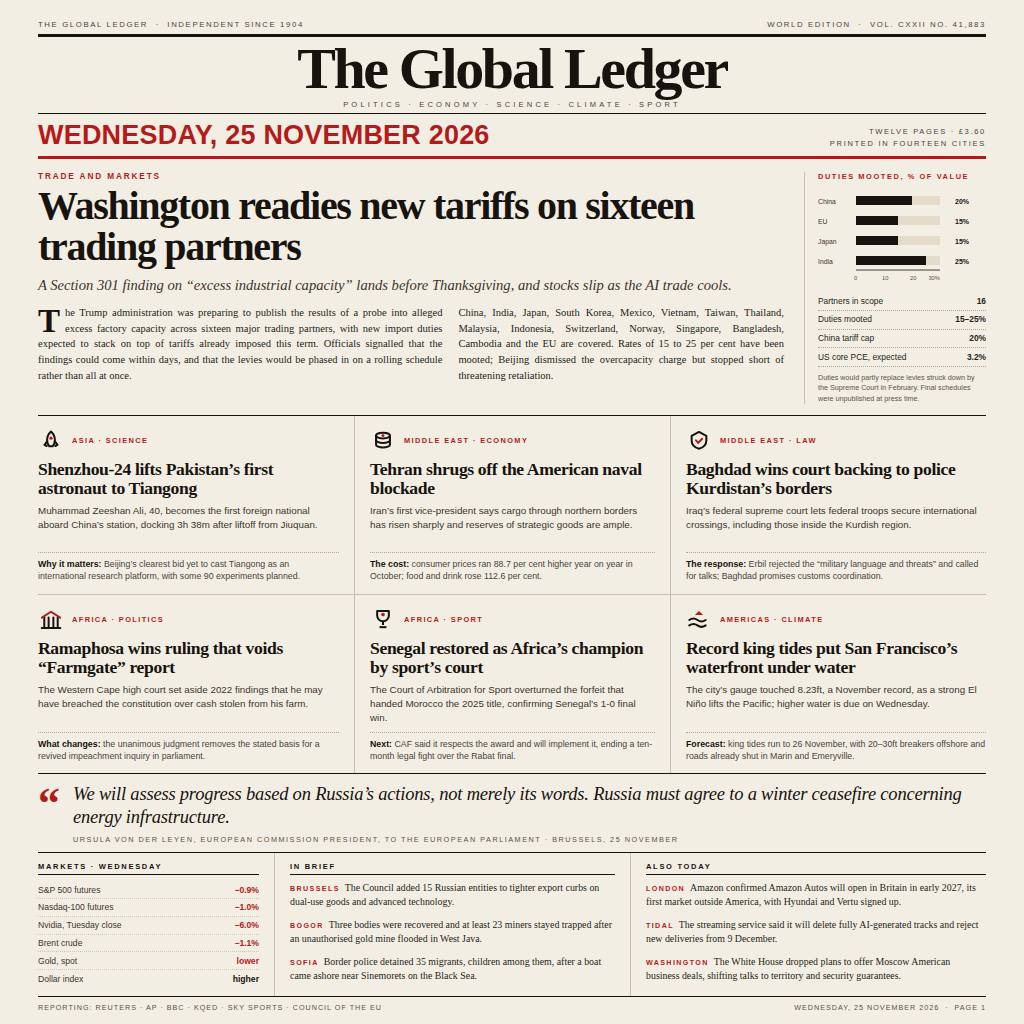
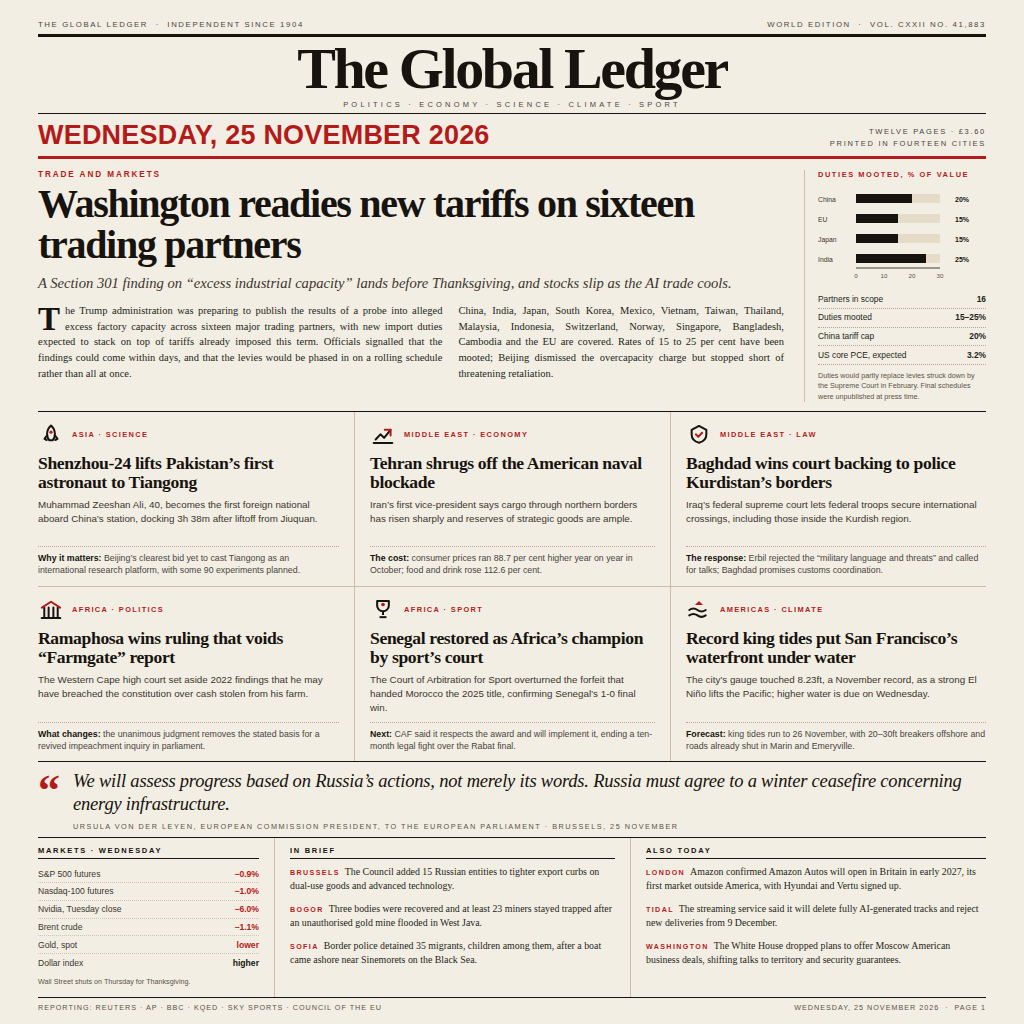
news-image-20261125: front page for Wednesday 25 November 2026
The Global Ledger, 1024x1024. Lead on Section 301 duties across sixteen
trading partners; Shenzhou-24 and Pakistan's first astronaut; Iran under
blockade at 88.7% inflation; Baghdad's court ruling on Kurdistan crossings;
Ramaphosa's Farmgate report set aside; Senegal restored as African champion;
record king tides in San Francisco. Plus von der Leyen pull quote, market
board and world briefs.

Changed region(s): [[0.0312, 0.1562, 0.9688, 0.9688], [0.7812, 0.1875, 0.8125, 0.2188]]

diff --git a/poster.html b/poster.html
@@ -56,7 +56,7 @@
   }
 
   /* lead */
-  .lead { display: flex; gap: 20px; padding: 13px 0 11px 0; border-bottom: 1px solid #17130e; }
+  .lead { display: flex; gap: 20px; padding: 11px 0 9px 0; border-bottom: 1px solid #17130e; }
   .lead-main { flex: 1 1 auto; min-width: 0; }
   .kicker {
     font-family: Helvetica, Arial, sans-serif;
@@ -91,7 +91,7 @@
     display: grid; grid-template-columns: 1fr 1fr 1fr; grid-template-rows: 1fr 1fr;
     border-bottom: 1px solid #17130e;
   }
-  .cell { padding: 12px 15px 11px 0; border-bottom: 1px solid #c9bfa9; display: flex; flex-direction: column; }
+  .cell { padding: 10px 15px 9px 0; border-bottom: 1px solid #c9bfa9; display: flex; flex-direction: column; }
   .cell:nth-child(3n+2) { padding-left: 15px; border-left: 1px solid #c9bfa9; }
   .cell:nth-child(3n+3) { padding-left: 15px; border-left: 1px solid #c9bfa9; padding-right: 0; }
   .cell:nth-child(n+4) { border-bottom: 0; }
@@ -111,7 +111,7 @@
   .cell .more b { color: #17130e; }
 
   /* pull quote */
-  .quote { border-bottom: 1px solid #17130e; padding: 9px 0 8px 0; display: flex; align-items: flex-start; gap: 13px; }
+  .quote { border-bottom: 1px solid #17130e; padding: 8px 0 6px 0; display: flex; align-items: flex-start; gap: 13px; }
   .quote .mark { font-size: 44px; line-height: 0.7; color: #b31b1b; font-weight: 700; flex: 0 0 auto; padding-top: 6px; }
   .quote .txt { font-size: 18.5px; line-height: 1.24; font-style: italic; letter-spacing: -0.2px; }
   .quote .attr {
@@ -125,7 +125,7 @@
     display: grid; grid-template-columns: 236px 1fr 1fr;
     border-bottom: 1px solid #17130e;
   }
-  .band > div { padding: 9px 15px 8px 0; display: flex; flex-direction: column; }
+  .band > div { padding: 8px 15px 6px 0; display: flex; flex-direction: column; }
   .band > div + div { border-left: 1px solid #c9bfa9; padding-left: 15px; }
   .band > div:last-child { padding-right: 0; }
   .bt-head {
@@ -149,7 +149,7 @@
 
   /* footer */
   .foot {
-    display: flex; justify-content: space-between; align-items: baseline; padding-top: 6px;
+    display: flex; justify-content: space-between; align-items: baseline; padding-top: 5px;
     font-family: Helvetica, Arial, sans-serif;
     font-size: 7.2px; letter-spacing: 1px; text-transform: uppercase; color: #5a5247;
   }
@@ -211,11 +211,11 @@
           <text x="0" y="75.5">India</text>
         </g>
         <path d="M38 82h84" stroke="#17130e" stroke-width="0.8"/>
-        <g font-family="Helvetica, Arial, sans-serif" font-size="5.8" fill="#5a5247">
-          <text x="36" y="92">0</text>
-          <text x="64" y="92">10</text>
-          <text x="92" y="92">20</text>
-          <text x="122" y="92" text-anchor="end">30%</text>
+        <g font-family="Helvetica, Arial, sans-serif" font-size="6.2" fill="#5a5247" text-anchor="middle">
+          <text x="38" y="92">0</text>
+          <text x="66" y="92">10</text>
+          <text x="94" y="92">20</text>
+          <text x="122" y="92">30</text>
         </g>
       </svg>
       <div class="figures">
@@ -250,12 +250,11 @@
     <div class="cell">
       <div class="top">
 <svg width="26" height="26" viewBox="0 0 24 24" aria-hidden="true">
-          <g fill="none" stroke="#17130e" stroke-width="1.85" stroke-linecap="round">
-            <ellipse cx="12" cy="7" rx="6.4" ry="2.6"/>
-            <path d="M5.6 7v4.2c0 1.4 2.9 2.6 6.4 2.6s6.4-1.2 6.4-2.6V7"/>
-            <path d="M5.6 11.2v4.2c0 1.4 2.9 2.6 6.4 2.6s6.4-1.2 6.4-2.6v-4.2"/>
+          <g fill="none" stroke="#17130e" stroke-width="1.85" stroke-linecap="round" stroke-linejoin="round">
+            <path d="M3.4 19.4h17.2"/>
+            <path d="M5.2 16.2l4.4-4.8 3.4 3.2 6-7.4"/>
           </g>
-          <circle cx="12" cy="7" r="1.4" fill="#b31b1b"/>
+          <path d="M13.6 7.2h5.4v5.2" fill="none" stroke="#b31b1b" stroke-width="1.85" stroke-linecap="round" stroke-linejoin="round"/>
         </svg>
         <div class="rk">Middle East · Economy</div>
       </div>
@@ -351,6 +350,7 @@
         <div><span class="lbl">Gold, spot</span><span class="dn">lower</span></div>
         <div><span class="lbl">Dollar index</span><span class="val">higher</span></div>
       </div>
+      <div class="note" style="margin-top:6px">Wall Street shuts on Thursday for Thanksgiving.</div>
     </div>
 
     <div>

diff --git a/README.md b/README.md
@@ -4,13 +4,34 @@
 [![rank](https://make.fun/badge/news-image-20261125/Ajwyunsx/news-image-20261125/rank.svg)](https://make.fun/bounty/news-image-20261125/leaderboard?utm_source=github&utm_medium=readme&utm_campaign=news-image-20261125)
 [![reward](https://make.fun/badge/news-image-20261125/Ajwyunsx/news-image-20261125/reward.svg)](https://make.fun/bounty/news-image-20261125?utm_source=github&utm_medium=readme&utm_campaign=news-image-20261125)
 
-A 1024x1024 Financial Times-style newspaper front page, "The Global Ledger", dated Wednesday 25 November 2026. The lead is Washington readying new Section 301 tariffs of 15–25% on sixteen trading partners as the AI trade cools; around it, Shenzhou-24 carries Pakistan's first astronaut to Tiangong, Tehran shrugs off the US naval blockade as inflation hits 88.7%, Baghdad wins court backing to police Kurdistan's border crossings, Ramaphosa's "Farmgate" report is set aside, Senegal's Africa Cup title is restored by sport's court, and record king tides flood San Francisco's waterfront. A pull quote from Ursula von der Leyen on a winter energy ceasefire, Wednesday's market board and world briefs fill the foot.
+**The Global Ledger** — a 1024×1024 newspaper front page summing up Wednesday, 25 November 2026. Newsprint stock, ink black, one accent red, no gradients and no stock photography: a Financial Times-style page built entirely from inline HTML/CSS/SVG in `poster.html`, rendered once to `entry.png`.
+
+## Stories on the page
+
+- **Lead — Trade and markets:** Washington readies Section 301 duties of 15–25% on sixteen trading partners over "excess industrial capacity"; stocks slip as the AI trade cools.
+- **Asia · Science:** Shenzhou-24 lifts Pakistan's first astronaut, Muhammad Zeeshan Ali, to Tiangong.
+- **Middle East · Economy:** Tehran shrugs off the American naval blockade as inflation runs at 88.7%.
+- **Middle East · Law:** Baghdad's federal court lets federal troops police Kurdistan's international crossings; Erbil rejects the "military language".
+- **Africa · Politics:** South Africa's Western Cape high court sets aside the "Farmgate" report against President Ramaphosa.
+- **Africa · Sport:** Sport's court restores Senegal as Africa's champion, overturning the forfeit of the 2025 final.
+- **Americas · Climate:** Record king tides flood San Francisco's waterfront, the gauge touching 8.23 feet.
+- **Plus:** a von der Leyen pull quote on a winter energy ceasefire, Wednesday's market board, and world briefs from Brussels, Bogor, Sofia, London, Tidal and Washington.
 
 ## Run it
 
 ```sh
 python3 main.py
 ```
+
+Writes `/output/entry.png` (byte-identical on every run) and prints its size. Stdlib only, no network.
+
+## Sources
+
+`RESEARCH.md` lists the reporting behind every item (Reuters, AP, BBC, KQED, Sky Sports, Council of the EU).
+
+## License
+
+MIT — see `LICENSE`.
 
 ---
 
